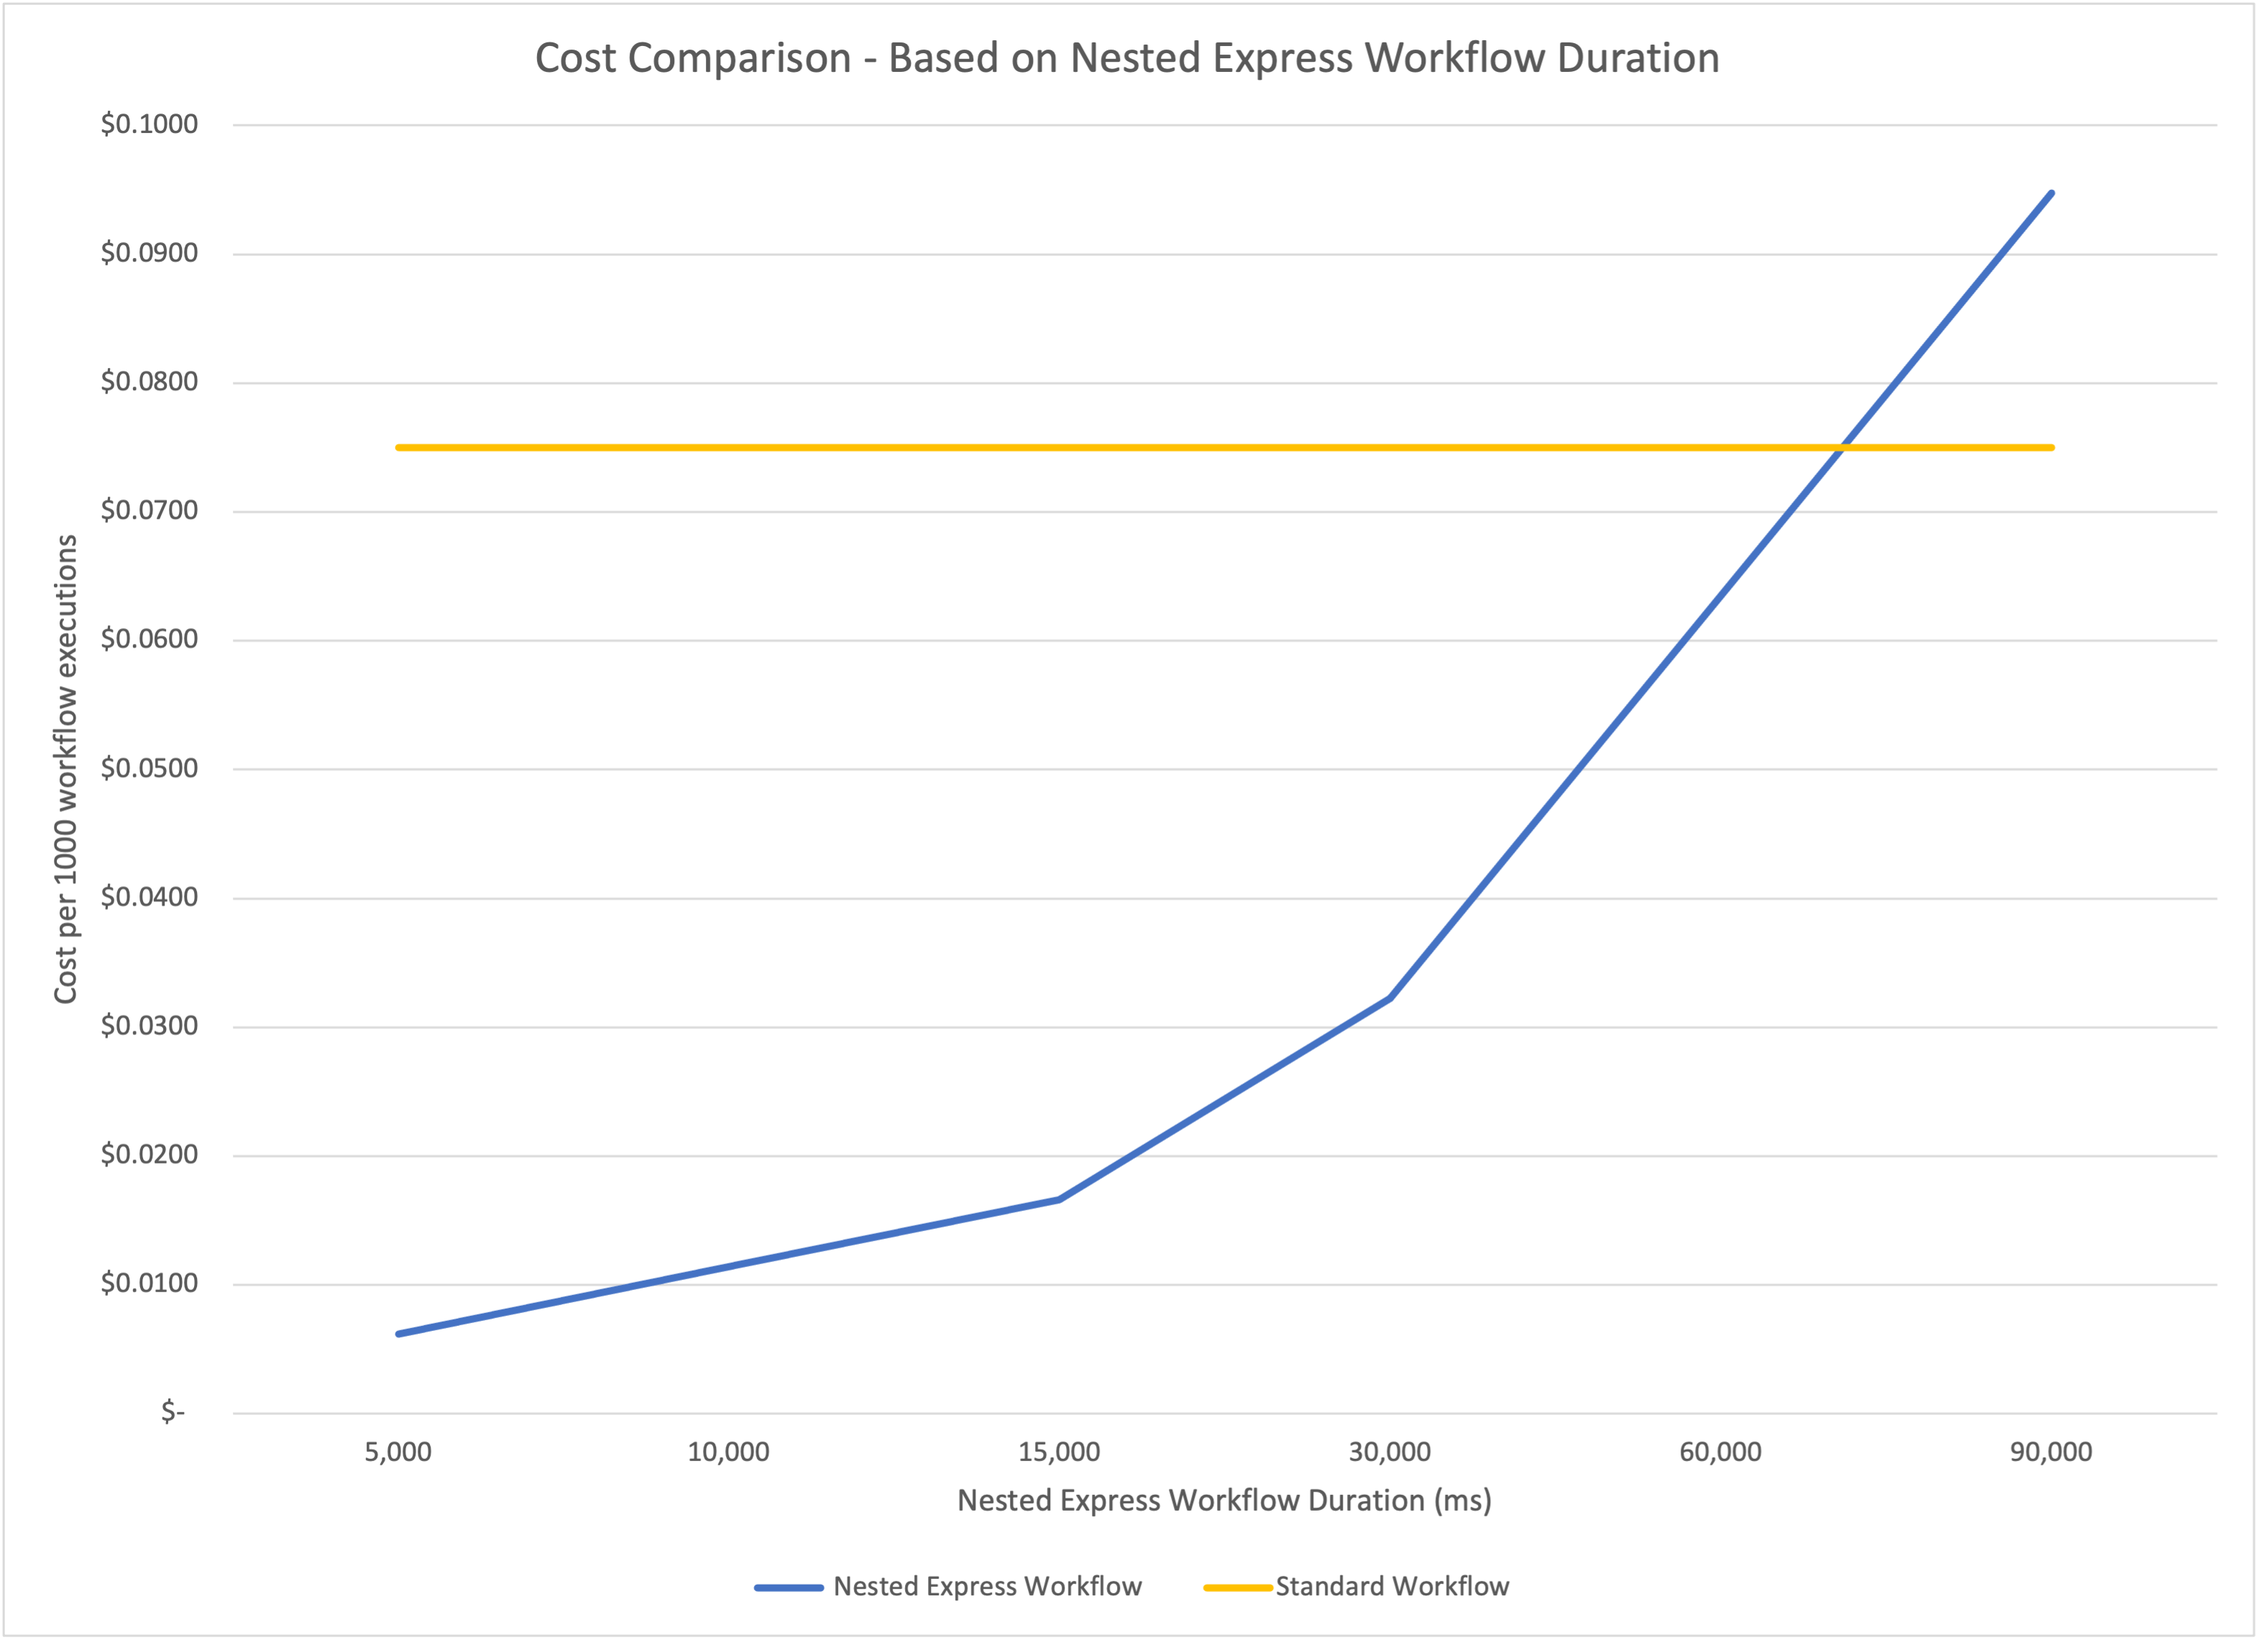
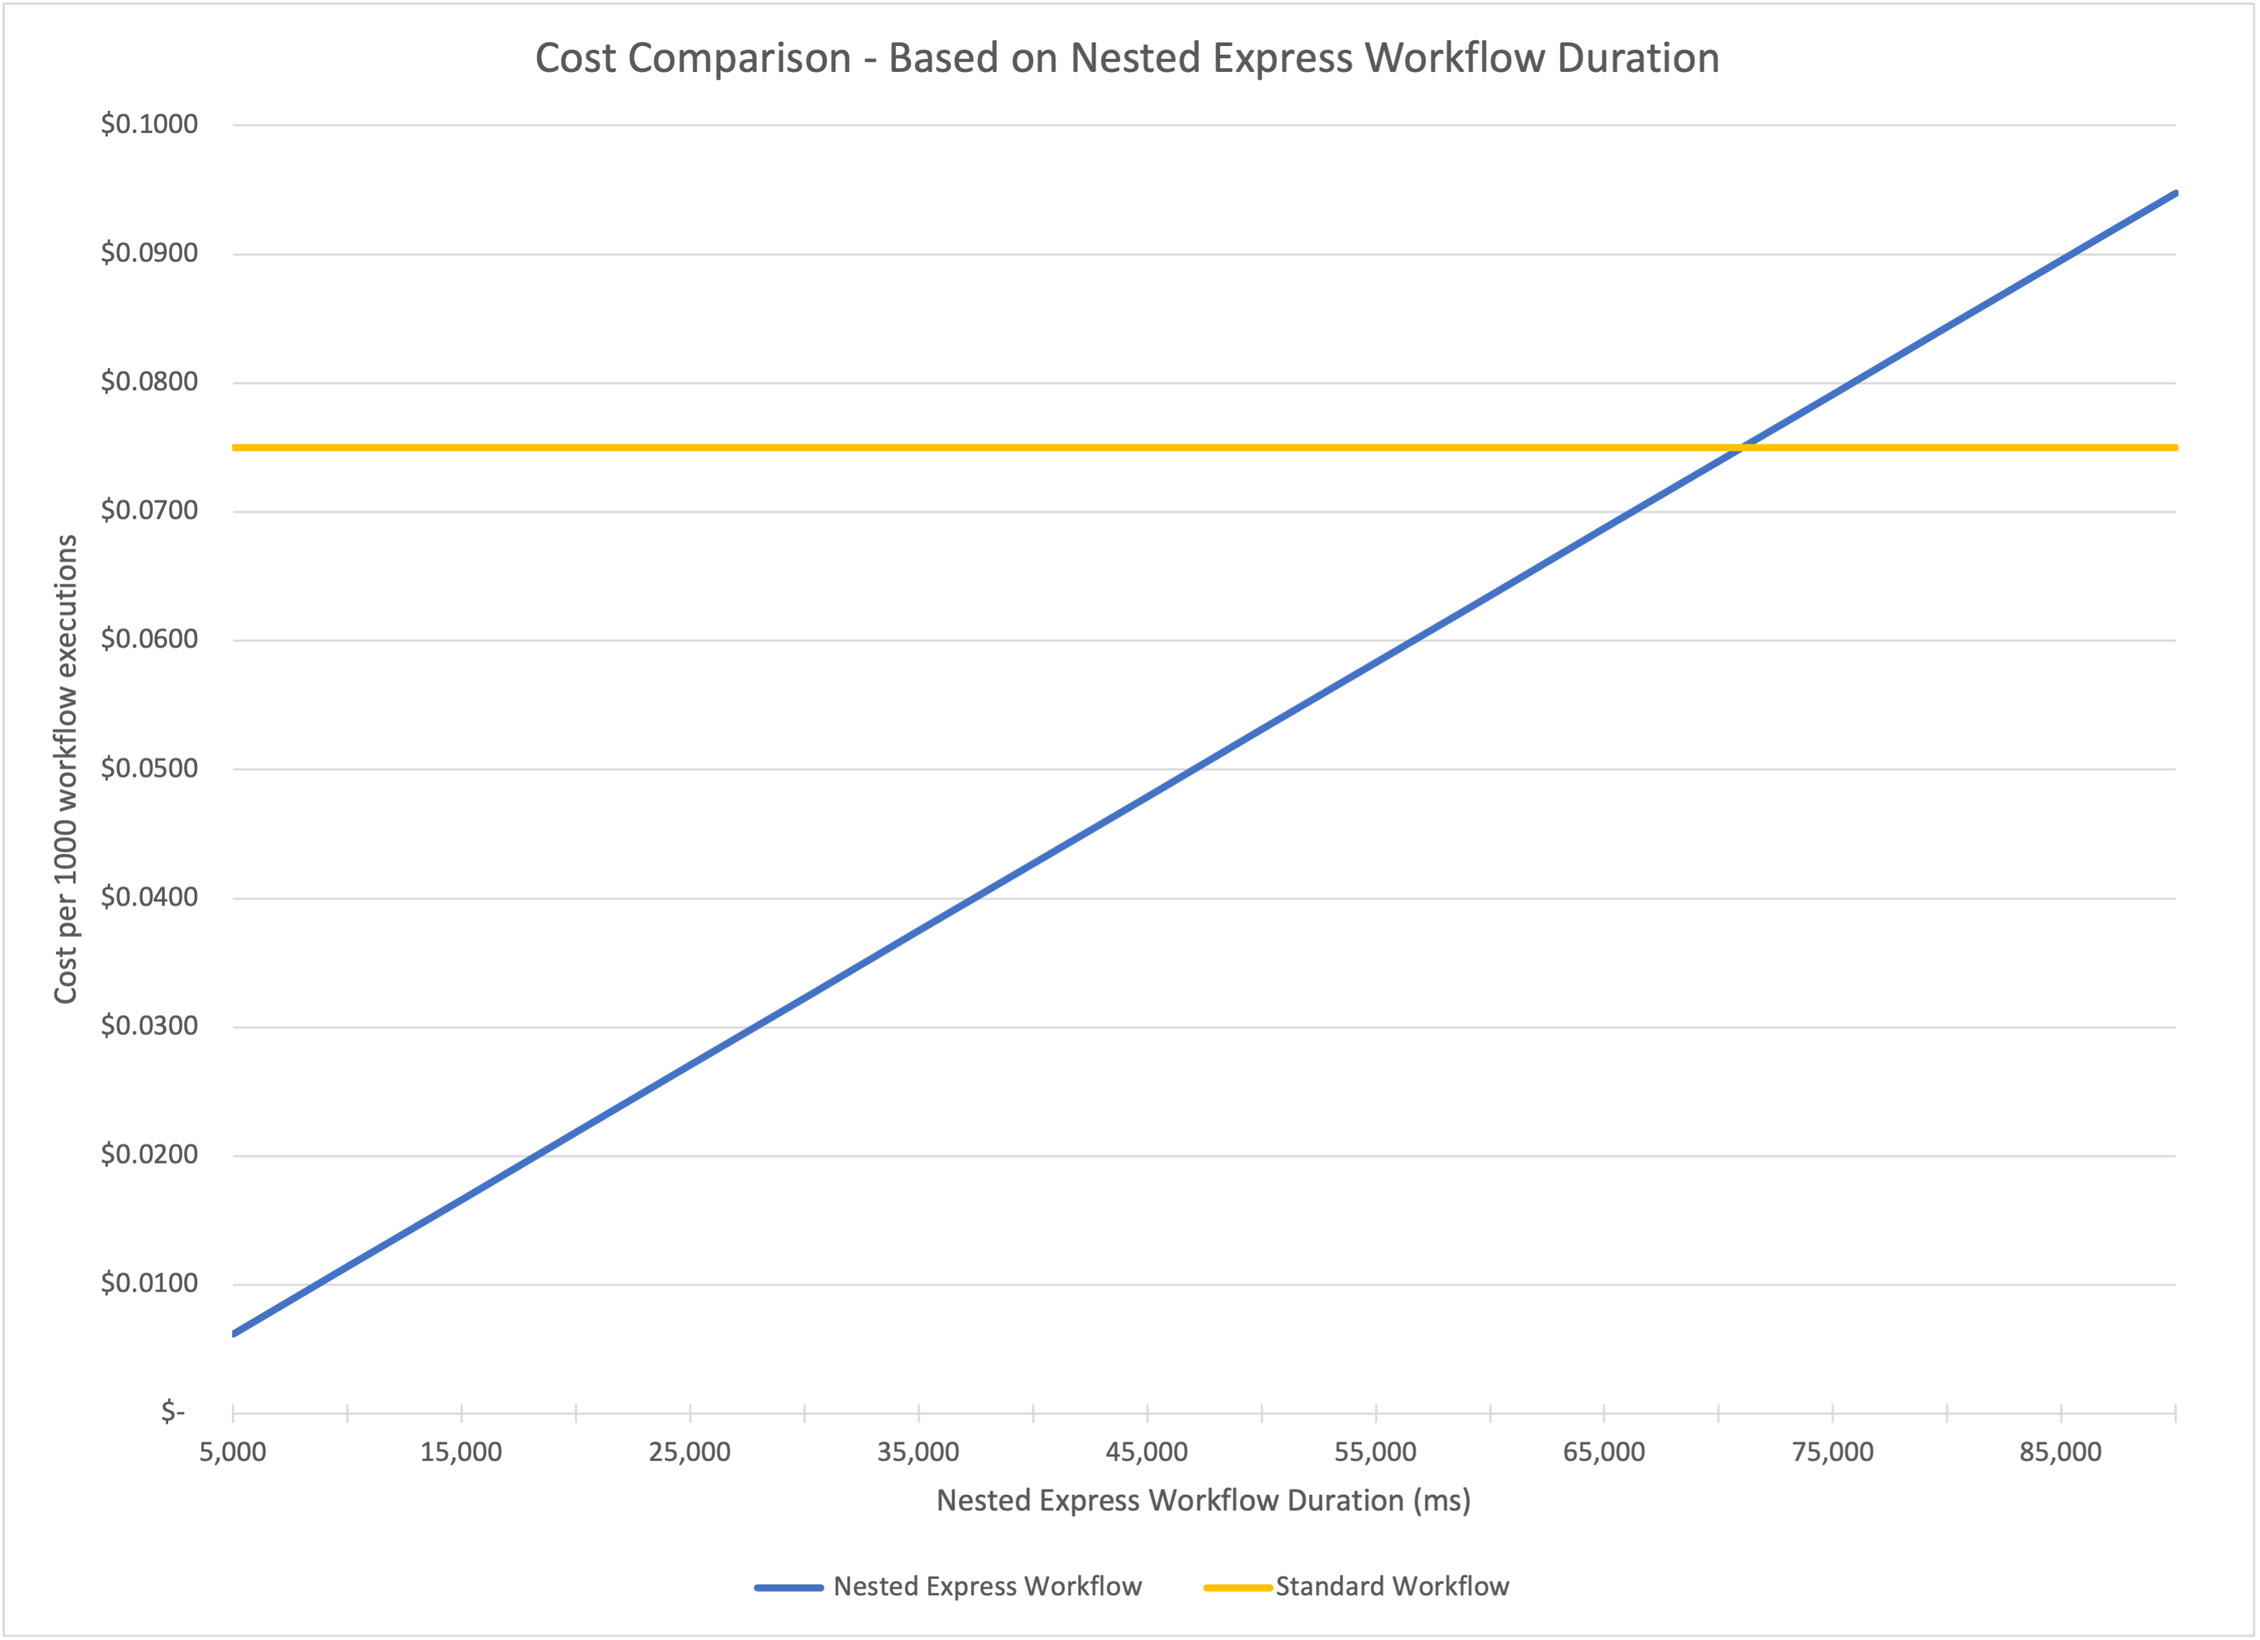
Minor updates, added cost comparison table

diff --git a/content/module-13/step-4/index.en.md b/content/module-13/step-4/index.en.md
@@ -4,13 +4,13 @@ weight: 154
 
 ---
 
-An Express workflow containing these steps has already been created in your account, with a name beginning with _ChildStateMachine_.
+Let's replace the steps in our Standard workflow with a nested Express workflow. An Express workflow containing these steps has already been created in your account, with a name beginning with _ChildStateMachine_.
 
 1. In the [Step Functions Console](https://console.aws.amazon.com/states/home), select “State machines” on the left-hand side and then click on the state machine with the name beginning with *ChildStateMachine*. From the “Details” box at the top, copy the ARN value, as you will use it in a subsequent step.  
 
 2. Next, open the state machine with the name beginning with *ParentStateMachine*. Click Edit and then click the Workflow Studio button on the right-hand side to edit the state machine in Workflow Studio.  
 
-3. Start by deleting the **Update Order History**, **Update Data Warehouse**, **Update Customer Profile**, and **Update Inventory** steps by clicking on each step and clicking **Delete all selected states**.  
+3. Start by deleting the **Update Order History**, **Update Data Warehouse**, **Update Customer Profile**, and **Update Inventory** steps by selecting the steps and clicking **Delete all selected states**.  
 
     ![Delete existing workflow steps](/static/img/module-13/delete-steps-from-workflow.png)
 
@@ -26,8 +26,8 @@ An Express workflow containing these steps has already been created in your acco
 
 7. When you’ve made the updates, click the **Apply and Exit** button and then the **Save** button.  
 
-8. You will receive a warning that the changes may affect which resources your state machine needs to access and therefore, updates to the IAM role used by your state machine may be required. For simplicity, the role already contains the required permissions, but in the real world, you should make sure to review the IAM role used by your state machine.  
+8. You may receive a warning that the changes could affect which resources your state machine needs to access and therefore, updates to the IAM role used by your state machine may be required. For simplicity, the role already contains the required permissions, but in the real world, you should make sure to review the IAM role used by your state machine.  
 
-9. Run the updated state machine by clicking the **Start Execution** button in the upper right corner. The state machine does not require any input - you can leave the “Comment” attribute that’s included by default, if you wish. Click **Start Execution**. You can now watch the state machine as the steps are executed and you should see a fully green diagram. Now, click the “State Machines” link on the left side and choose the workflow starting with ChildStateMachine. On the “Monitoring” tab, you should see a value of 1 for the “Executions Started” metric, and a value of 1 for the “Executions Succeeded” metric, indicating the nested workflow was executed successfully.  
+9. Run the updated state machine by clicking the **Start Execution** button in the upper right corner. The state machine does not require any input - you can leave the “Comment” attribute that’s included by default, if you wish. Click **Start Execution**. You can now watch the state machine as the steps are executed and you should see a fully green diagram. Now, click the “State Machines” link on the left side and choose the workflow starting with _ChildStateMachine_. On the “Monitoring” tab, you should see a value of 1 for the “Executions Started” metric, and a value of 1 for the “Executions Succeeded” metric, indicating the nested workflow was executed successfully.  
 
     ![Child Express workflow execution stats](/static/img/module-13/child-state-machine-execution-stats.png)

diff --git a/content/module-13/step-2/index.en.md b/content/module-13/step-2/index.en.md
@@ -10,10 +10,10 @@ Follow the instructions on this page only if you are executing this workshop in 
 - Click on the `Launch` link against any of the regions in the table below to start the deployment.
   | Region | Launch stack |
   | ----------------------------------- | -------------------------------------------------------------------------------------------------------------------------------------------------------------------------------------------------------------------------------------------------------------: |
-  | **US East (N. Virginia)** us-east-1 | [Launch](https://console.aws.amazon.com/cloudformation/home?region=us-east-1#/stacks/create/template?stackName=SFW-Module-12&templateURL=https://serverless-stepfunctions-artifacts-17oiei2i27urc.s3.amazonaws.com/resources/module_13.yml) |
-  | **Europe (Ireland)** eu-west-1 | [Launch](https://console.aws.amazon.com/cloudformation/home?region=eu-west-1#/stacks/create/template?stackName=SFW-Module-12&templateURL=https://serverless-stepfunctions-artifacts-17oiei2i27urc.s3.amazonaws.com/resources/module_13.yml) |
-  | **Asia Pacific (Singapore)** ap-southeast-1 | [Launch](https://console.aws.amazon.com/cloudformation/home?region=ap-southeast-1#/stacks/create/template?stackName=SFW-Module-12&templateURL=https://serverless-stepfunctions-artifacts-17oiei2i27urc.s3.amazonaws.com/resources/module_13.yml) |
-  | **Asia Pacific (Sydney)** ap-southeast-2 | [Launch](https://console.aws.amazon.com/cloudformation/home?region=ap-southeast-2#/stacks/create/template?stackName=SFW-Module-12&templateURL=https://serverless-stepfunctions-artifacts-17oiei2i27urc.s3.amazonaws.com/resources/module_13.yml) |
+  | **US East (N. Virginia)** us-east-1 | [Launch](https://console.aws.amazon.com/cloudformation/home?region=us-east-1#/stacks/create/template?stackName=SFW-Module-13&templateURL=https://serverless-stepfunctions-artifacts-17oiei2i27urc.s3.amazonaws.com/resources/module_13.yml) |
+  | **Europe (Ireland)** eu-west-1 | [Launch](https://console.aws.amazon.com/cloudformation/home?region=eu-west-1#/stacks/create/template?stackName=SFW-Module-13&templateURL=https://serverless-stepfunctions-artifacts-17oiei2i27urc.s3.amazonaws.com/resources/module_13.yml) |
+  | **Asia Pacific (Singapore)** ap-southeast-1 | [Launch](https://console.aws.amazon.com/cloudformation/home?region=ap-southeast-1#/stacks/create/template?stackName=SFW-Module-13&templateURL=https://serverless-stepfunctions-artifacts-17oiei2i27urc.s3.amazonaws.com/resources/module_13.yml) |
+  | **Asia Pacific (Sydney)** ap-southeast-2 | [Launch](https://console.aws.amazon.com/cloudformation/home?region=ap-southeast-2#/stacks/create/template?stackName=SFW-Module-13&templateURL=https://serverless-stepfunctions-artifacts-17oiei2i27urc.s3.amazonaws.com/resources/module_13.yml) |
 
 - Location of the CloudFormation template will be auto populated in the `Amazon S3 URL` field as shown in the diagram below. Click `Next`
   ![CloudFormation specify template](/static/img/module-13/setup-cloudformation-specify-template.png)

diff --git a/content/module-13/step-5/index.en.md b/content/module-13/step-5/index.en.md
@@ -6,13 +6,11 @@ weight: 155
 
 Cost and performance are key reasons to consider nesting Express workflows within Standard workflows.  
 
-## Standard Workflow Pricing
+## Pricing
 
-Standard Workflows are charged based on the number of state transitions required to run a workload. Step Functions counts a state transition each time a step of your workflow runs. You are charged for the total number of state transitions across all your Standard state machines, including retries.
-
-## Express Workflow Pricing
-
-On the other hand, Express Workflows are charged based on the number of requests and their duration. Duration is calculated from the time that your workflow begins running until it completes or otherwise finishes, rounded up to the nearest 100 ms, and the amount of memory used in running your workflow, billed in 64-MB chunks.
+|**Standard Workflows**|**Express Workflows**|
+---|---|
+|Standard Workflows are charged based on the number of state transitions required to run a workload. Step Functions counts a state transition each time a step of your workflow runs. You are charged for the total number of state transitions across all your Standard state machines, including retries.|Express Workflows are charged based on the number of times your state machine executes and the duration. Duration is calculated from the time that your workflow begins running until it completes or otherwise finishes, rounded up to the nearest 100 ms, and the amount of memory used in running your workflow, billed in 64-MB chunks.|
 
 ## Pricing Comparison
 
@@ -42,6 +40,6 @@ To summarize, in this example, it costs 7.5x more to keep those steps in the Sta
 
 ### How Express Workflow Duration Affects Cost
 
-The cost savings is dependent on the number of steps you remove from your Standard Workflow and the duration of the nested Express Workflow. In the example, you removed three (3) state transitions by replacing four (4) task steps with one nested workflow step. The savings will vary based on the nested workflow duration, as you can see below.
+The cost savings is dependent on the number of steps you remove from your Standard Workflow and the duration of the nested Express Workflow. In the example, you removed three (3) state transitions by replacing four (4) task steps with one nested workflow step. The chart below shows the cost of 1,000 executions of the Standard workflow steps, plotted against the cost of the same steps when moved to a nested Express workflow, over a variety of durations. As you can see, the Express workflow is less expensive, even if it runs for one minute.
 
 ![Cost comparison chart](/static/img/module-13/cost-comparison-by-duration.png)
